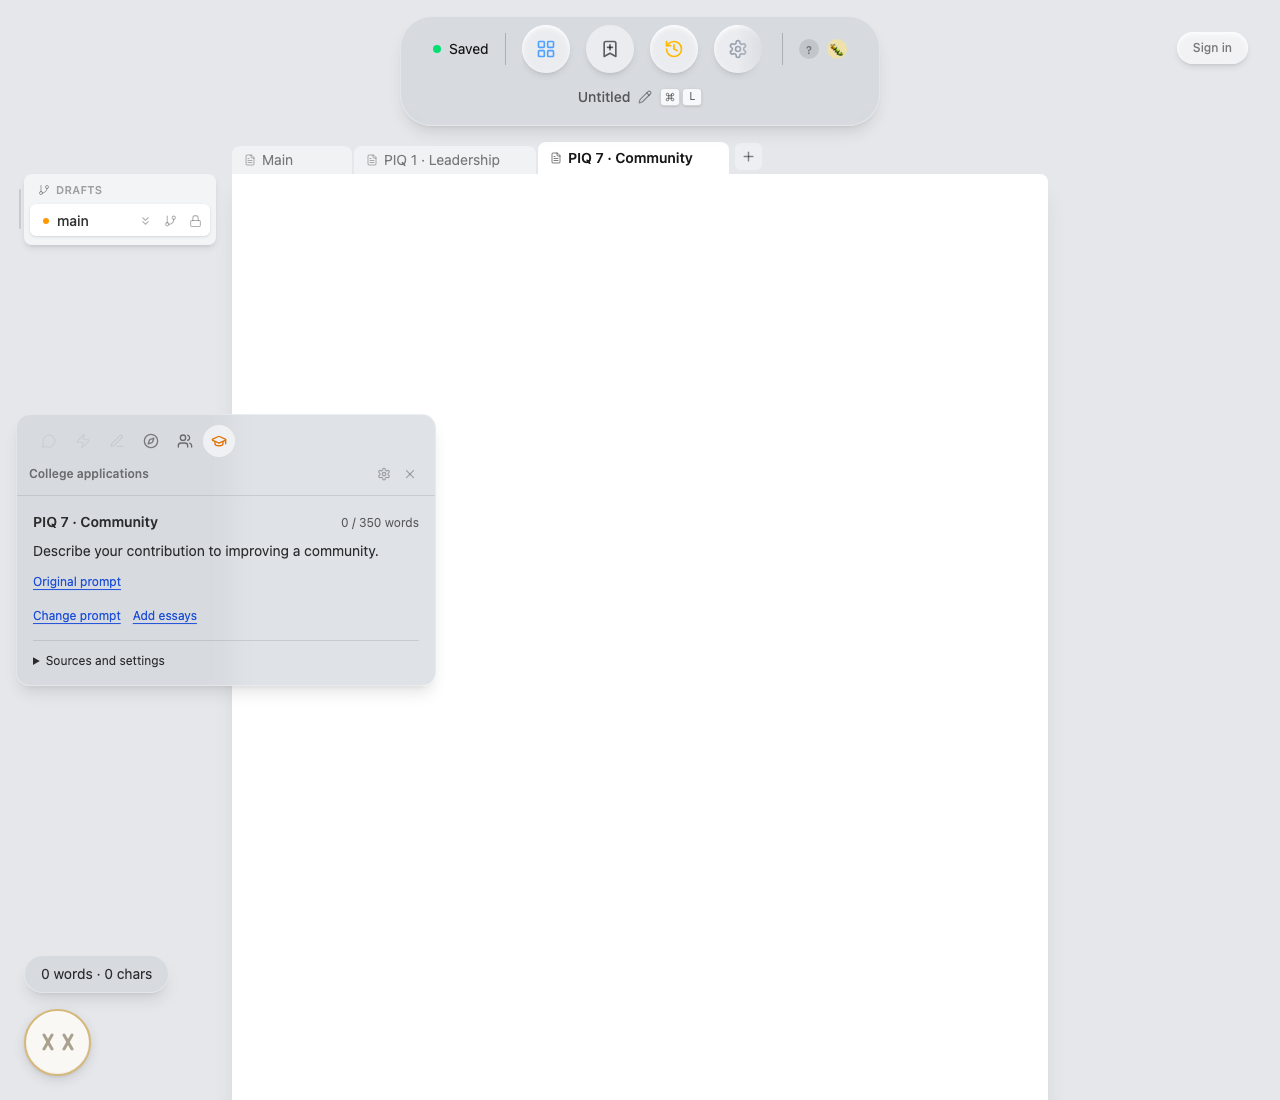
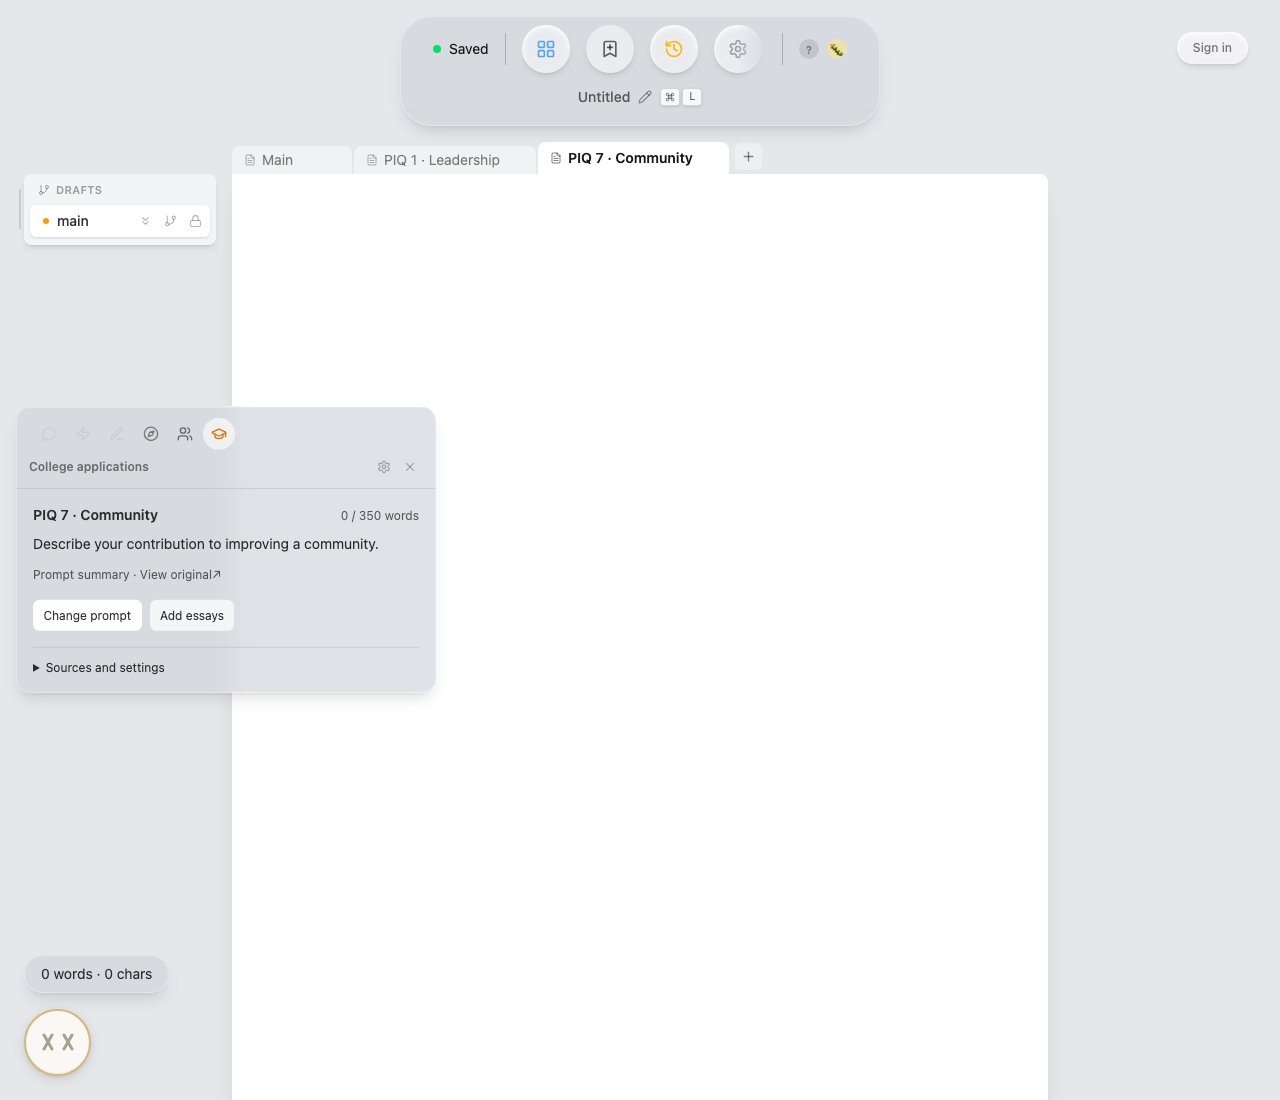
Polish College actions and source details

Changed region(s): [[0.0312, 0.4636, 0.3438, 0.6182], [0.1562, 0.3709, 0.3438, 0.4018], [0.0312, 0.4018, 0.125, 0.4327]]

diff --git a/packages/desktop/src/lib/college/CollegePanel.svelte b/packages/desktop/src/lib/college/CollegePanel.svelte
@@ -165,30 +165,40 @@ async function update(setup: CollegeSetup | null): Promise<void> {
         {@const setup = view.setup}
         {#each setup.prompts as prompt (prompt.id)}
             <section class="space-y-2" aria-label={prompt.label || "Your prompt"}>
-                <div class="flex items-baseline justify-between gap-3">
+                <div class="flex flex-wrap items-baseline justify-between gap-x-3 gap-y-1">
                     <h2 class="font-semibold">{prompt.label || "Your prompt"}</h2>
                     {#each prompt.constraints.filter(c => c.unit !== "other") as constraint (constraint.id)}
-                        <span class="text-xs text-black/60 whitespace-nowrap" aria-label="Essay length">{constraint.unit === "characters" ? view.characterCount : view.wordCount}{constraint.max !== null ? ` / ${constraint.max}` : ""} {constraint.unit}</span>
+                        <span class="text-xs text-black/60 whitespace-nowrap tabular-nums" aria-label="Essay length">{constraint.unit === "characters" ? view.characterCount : view.wordCount}{constraint.max !== null ? ` / ${constraint.max}` : ""} {constraint.unit}</span>
                     {/each}
                 </div>
                 <p class="whitespace-pre-wrap leading-relaxed">{prompt.text}</p>
-                {#if prompt.sourceUrl}<a class="link" href={prompt.sourceUrl} target="_blank" rel="noreferrer">Original prompt</a>{/if}
+                {#if prompt.sourceUrl}<a class="source-link" href={prompt.sourceUrl} target="_blank" rel="noreferrer">{setup.kind === "supplemental" ? "Original prompt" : "Prompt summary · View original"}<span aria-hidden="true"> ↗</span></a>{/if}
             </section>
         {/each}
         {#if setup.prompts.length > 1}<p class="text-xs text-black/60">This earlier setup has multiple prompts. Change prompt to replace it with one; your writing stays.</p>{/if}
         {#if !setup.active}<p class="text-xs text-black/60">Paused. Feedback isn’t using this prompt.</p>{/if}
-        <div class="flex flex-wrap gap-3">
-            <button class="link" onclick={() => start(true)}>Change prompt</button>
-            <button class="link" onclick={() => start()}>Add essays</button>
+        <div class="flex flex-wrap gap-2">
+            <button class="secondary" onclick={() => start(true)}>Change prompt</button>
+            <button class="secondary" onclick={() => start()}>Add essays</button>
         </div>
         <details class="border-t border-black/10 pt-3">
             <summary class="text-xs cursor-pointer">Sources and settings</summary>
             <div class="space-y-3 pt-3 text-xs">
-                <p>{setup.school} {setup.cycle ? `· ${setup.cycle}` : ""}</p>
-                {#each setup.references as ref (ref.id)}<p>{ref.summary} {#if ref.url}<a class="link" href={ref.url} target="_blank" rel="noreferrer">{ref.publisher}</a>{/if} · Checked {ref.checkedDate} · {ref.cycle || "Cycle not specified"}</p>{/each}
-                {#if view.aiEnabled}<div class="flex gap-3"><button class="link" onclick={() => college?.openPanel("context")}>Context</button><button class="link" onclick={() => college?.openPanel("readers")}>Readers</button><button class="link" onclick={() => college?.openPanel("settings")}>Settings</button></div>{/if}
-                <button class="secondary" disabled={busy || view.saving} onclick={() => update({...setup, active: !setup.active})}>{setup.active ? "Pause setup" : "Resume setup"}</button>
-                <button class="link" onclick={() => removing = true}>Remove setup…</button>
+                {#if setup.school || setup.cycle}<p class="text-black/60">{[setup.school, setup.cycle].filter(Boolean).join(" · ")}</p>{/if}
+                <div class="space-y-3">
+                    {#each setup.references as ref (ref.id)}
+                        <div class="source-card">
+                            {#if ref.url}<a class="source-link font-medium" href={ref.url} target="_blank" rel="noreferrer">{ref.publisher}<span aria-hidden="true"> ↗</span></a>{:else}<p class="font-medium">{ref.publisher}</p>{/if}
+                            <p class="leading-relaxed mt-1">{ref.summary}</p>
+                            <p class="text-black/50 mt-2">Checked {ref.checkedDate}{ref.cycle ? ` · ${ref.cycle}` : ""}</p>
+                        </div>
+                    {/each}
+                </div>
+                {#if view.aiEnabled}<div class="flex flex-wrap gap-2" aria-label="AI preferences"><button class="secondary" onclick={() => college?.openPanel("context")}>Context</button><button class="secondary" onclick={() => college?.openPanel("readers")}>Readers</button><button class="secondary" onclick={() => college?.openPanel("settings")}>AI settings</button></div>{/if}
+                <div class="flex flex-wrap items-center justify-between gap-2 border-t border-black/10 pt-3">
+                    <button class="secondary" disabled={busy || view.saving} onclick={() => update({...setup, active: !setup.active})}>{setup.active ? "Pause setup" : "Resume setup"}</button>
+                    <button class="remove-action" disabled={busy || view.saving} onclick={() => removing = true}>Remove setup…</button>
+                </div>
             </div>
         </details>
     {/if}
@@ -207,6 +217,14 @@ async function update(setup: CollegeSetup | null): Promise<void> {
     .primary { padding:.7rem; border-radius:.5rem; background:#2563eb; color:white; }
     .secondary { padding:.45rem .65rem; border-radius:.4rem; background:rgb(255 255 255 / .7); font-size:.75rem; }
     .link { font-size:.75rem; color:#1d4ed8; text-decoration:underline; text-underline-offset:3px; }
+    .secondary:hover:not(:disabled) { background:rgb(255 255 255 / .95); }
+    .source-link { color:rgb(0 0 0 / .6); font-size:.75rem; text-underline-offset:3px; }
+    .source-link span { margin-left:.25rem; }
+    .source-link:hover { text-decoration:underline; color:rgb(0 0 0 / .85); }
+    .source-card { padding:.7rem; border-radius:.5rem; background:rgb(255 255 255 / .35); }
+    .remove-action { padding:.45rem .2rem; font-size:.75rem; color:#991b1b; }
+    .remove-action:hover:not(:disabled) { text-decoration:underline; text-underline-offset:3px; }
+    a:focus-visible { outline:2px solid #2563eb; outline-offset:3px; border-radius:2px; }
     summary { cursor:pointer; }
     button:focus-visible, input:focus-visible, textarea:focus-visible, select:focus-visible, summary:focus-visible { outline:2px solid #2563eb; outline-offset:2px; }
 </style>
